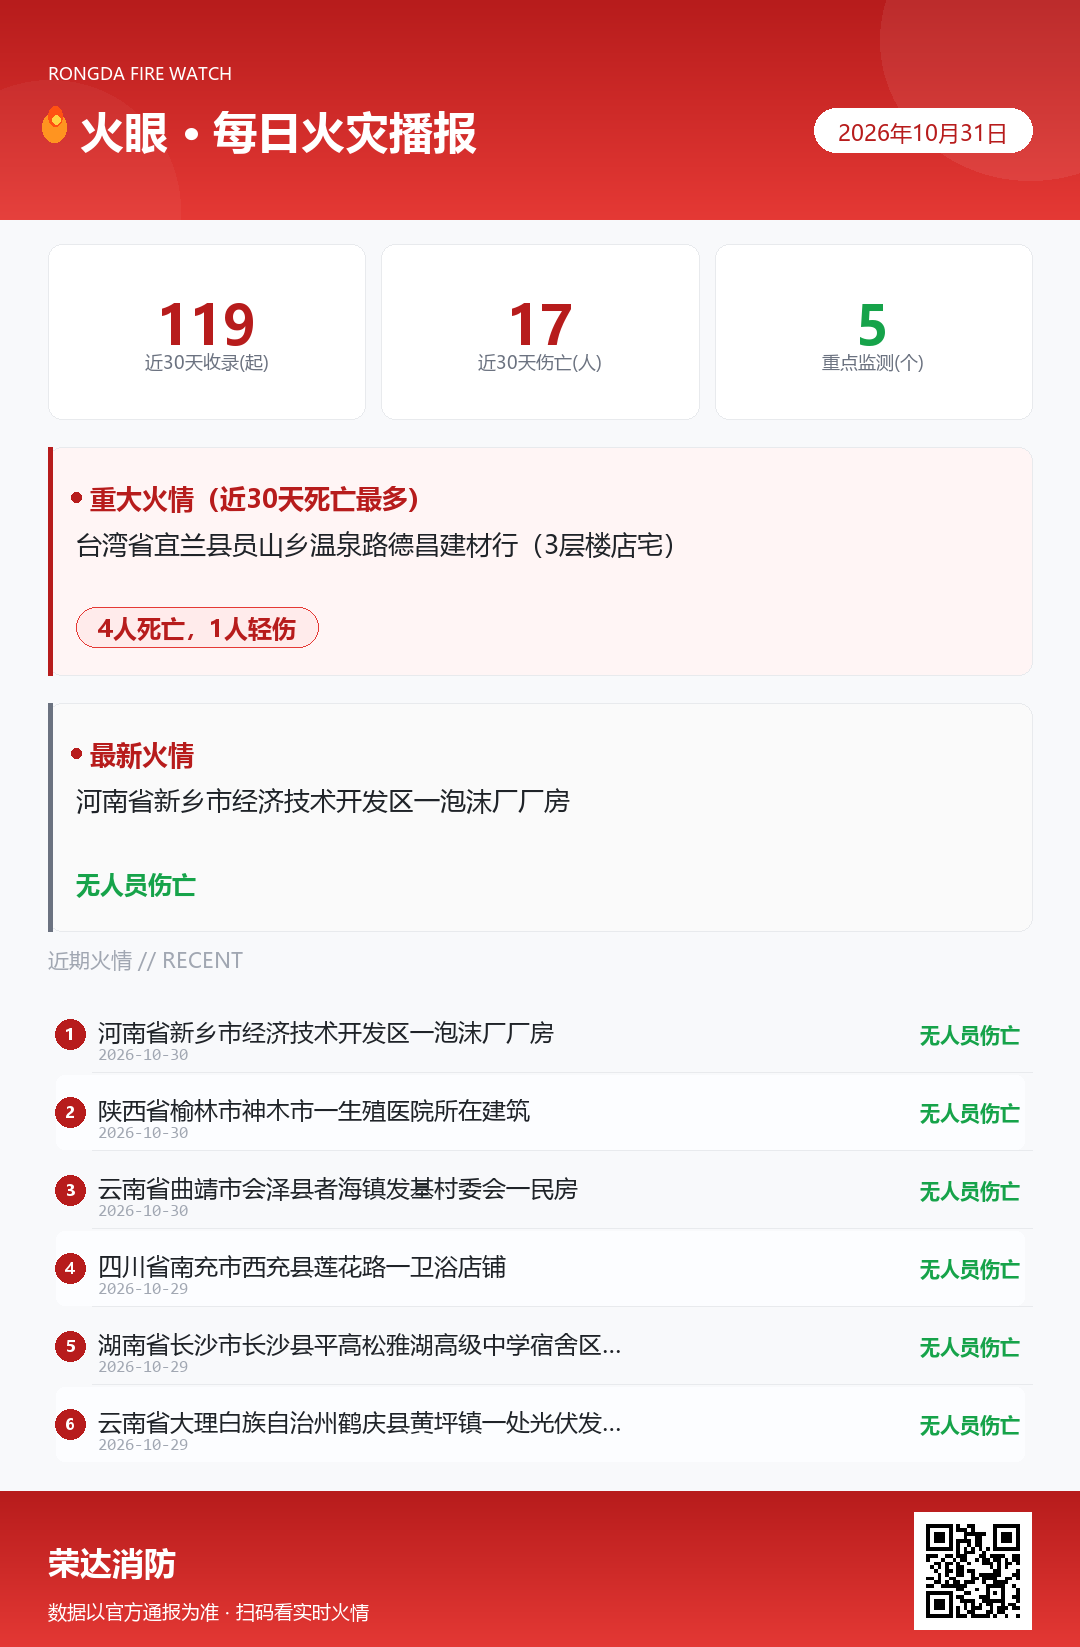
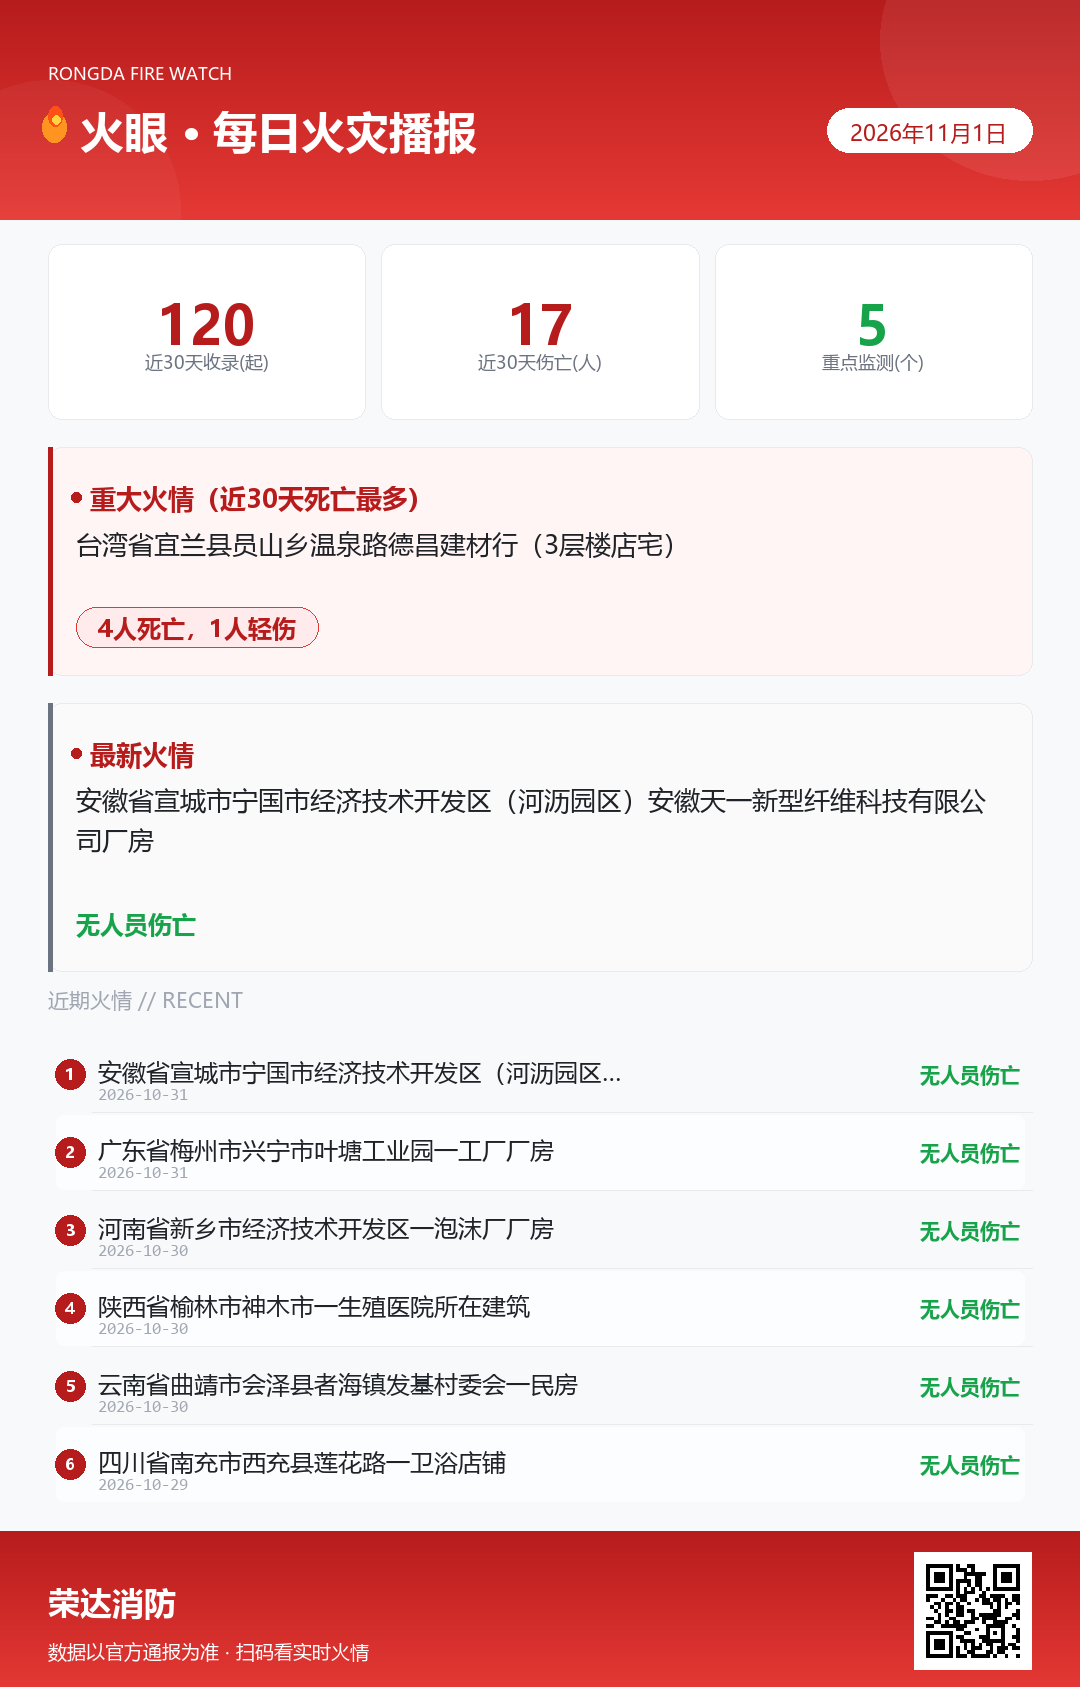
fire-daily-brief 2026-11-01 10:56 roll

diff --git a/index.html b/index.html
@@ -435,8 +435,8 @@
 <!-- ============ DATA（每日自动更新：由自动化脚本重写此对象） ============ -->
 <script id="brief-data" type="application/json">
 {
-  "date": "2026年10月31日",
-  "compileTime": "2026-10-31 06:58",
+  "date": "2026年11月1日",
+  "compileTime": "2026-11-01 10:56",
   "source": "AI 联网检索 · 各地消防救援机构官方通报及权威媒体转载",
   "range": "滚动更新 · 近 30 天",
   "stats": {
@@ -455,7 +455,7 @@
     },
     {
       "name": "广州市",
-      "status": "有官方通报（7·12 酒店广告牌火情、8·24 天河区广州大道中一仓库火灾（无伤亡、8·28 荔湾区西华路一民房火灾（无人员伤亡，12人疏散；9·5 天河区天河南一路天河城顶部火情（暂未收到人员伤亡报告、9·24 白云区人和镇同富路 13 号一厂房火灾（无人员伤亡，明火当晚 21 时 58 分扑灭）、10·7 一出租屋电动自行车蓄电池入户充电热失控起火（无人员伤亡，当事人被行政拘留）、10·10 增城区新塘镇一自建房火灾（室内电动车充电引发，无伤亡，当事人被行政拘留10日）、10·7 当日另一起出租屋电动自行车蓄电池入户充电热失控（凌晨1时许，无人员伤亡，当事人被行政拘留10日）、10·21 增城区荔城街道一小区负一层地下车库电动自行车起火（自动喷淋扑灭，1台电动车烧毁，无人员伤亡））"
+      "status": "有官方通报（7·12 酒店广告牌火情、8·24 天河区广州大道中一仓库火灾（无伤亡、8·28 荔湾区西华路一民房火灾（无人员伤亡，12人疏散；9·5 天河区天河南一路天河城顶部火情（暂未收到人员伤亡报告、9·24 白云区人和镇同富路 13 号一厂房火灾（无人员伤亡，明火当晚 21 时 58 分扑灭）、10·7 一出租屋电动自行车蓄电池入户充电热失控起火（无人员伤亡，当事人被行政拘留）、10·10 增城区新塘镇一自建房火灾（室内电动车充电引发，无伤亡，当事人被行政拘留10日）、10·7 当日另一起出租屋电动自行车蓄电池入户充电热失控（凌晨1时许，无人员伤亡，当事人被行政拘留10日）、10·21 增城区荔城街道一小区负一层地下车库电动自行车起火（自动喷淋扑灭，1台电动车烧毁，无人员伤亡、10·25 荔湾区海龙街道一小区10楼住户阳台起火（阳台堆放艾草艾条，物业与业主接力用水带扑救，明火在消防到场前已扑灭，无伤亡）"
     },
     {
       "name": "深圳市",
@@ -463,13 +463,13 @@
     }
   ],
   "case": {
-    "date": "2026-10-30",
-    "location": "河南省新乡市经济技术开发区一泡沫厂厂房",
+    "date": "2026-10-31",
+    "location": "安徽省宣城市宁国市经济技术开发区（河沥园区）安徽天一新型纤维科技有限公司厂房",
     "category": "工厂/车间",
-    "summary": "10月30日上午，河南新乡经济技术开发区一家泡沫厂发生火情。现场画面显示厂房区域燃起明火，橙红色火焰从厂房内部向外蹿出，滚滚黑色浓烟不断向上喷涌，多名路过群众看到浓烟在空中弥漫。新乡经开区消防救援大队值班人员表示火已扑灭、工作人员仍在现场处置；经开区应急管理局及属地政府均表示火灾未造成人员伤亡。",
+    "summary": "10月31日10时26分，119接到报警，宁国经济技术开发区河沥园区安徽天一新型纤维科技有限公司厂区发生火灾，现场黑烟滚滚、火势猛烈。消防救援力量第一时间赶赴现场处置，14时32分火被成功扑灭，燃烧时长约4小时。该公司成立于2014年10月，厂区占地200余亩、拥有10万平方米标准厂房、约300名产业工人，主要生产服装革、沙发革、汽车革、鞋革及箱包革等产品。",
     "casualty": "无人员伤亡",
-    "cause": "具体起火原因尚不清楚，正在调查中",
-    "src": "海报新闻 2026-10-30 报道（腾讯新闻、网易转载），新乡经开区消防救援大队、经开区应急管理局回应"
+    "cause": "事故原因正在调查中",
+    "src": "宁国市安防办情况通报（2026-10-31，宁国融媒发布）、新京报报道"
   },
   "tips": [
     "住宅近30天火情占三成，电气与降温取暖是主因：吉林梅河口10·20实验中学电暖器起火、浙江嘉兴10·15一住户老旧电视插头九年未拔疑线路老化、绍兴10·15冰箱故障引燃。降温期取暖设备专插专用人离即断，老旧插排和长期通电插头赶紧换，私拉乱接一律整改。",
@@ -488,6 +488,24 @@
     "媒体转载内容均注明原始官方来源。"
   ],
   "history": [
+    {
+      "date": "2026-10-31",
+      "location": "安徽省宣城市宁国市经济技术开发区（河沥园区）安徽天一新型纤维科技有限公司厂房",
+      "category": "工厂/车间",
+      "summary": "10月31日10时26分，119接到报警，宁国经济技术开发区河沥园区安徽天一新型纤维科技有限公司厂区发生火灾，现场黑烟滚滚、火势猛烈。消防救援力量第一时间赶赴现场处置，14时32分火被成功扑灭，燃烧时长约4小时。该公司成立于2014年10月，厂区占地200余亩、拥有10万平方米标准厂房、约300名产业工人，主要生产服装革、沙发革、汽车革、鞋革及箱包革等产品。",
+      "casualty": "无人员伤亡",
+      "cause": "事故原因正在调查中",
+      "src": "宁国市安防办情况通报（2026-10-31，宁国融媒发布）、新京报报道"
+    },
+    {
+      "date": "2026-10-31",
+      "location": "广东省梅州市兴宁市叶塘工业园一工厂厂房",
+      "category": "工厂/车间",
+      "summary": "10月31日11时30分至40分许，兴宁市消防救援大队接到报警，叶塘工业园内一处工业厂区起火，网传现场视频显示浓烟冲天。兴宁市应急管理局当日16时20分许向媒体确认，起火地点位于叶塘工业园内一处有围墙隔开的工业厂区，现场火势已被扑灭，无人员伤亡。",
+      "casualty": "无人员伤亡",
+      "cause": "起火原因待查",
+      "src": "新京报（记者武丹萍）2026-10-31 报道，兴宁市应急管理局、兴宁市消防救援大队回应"
+    },
     {
       "date": "2026-10-30",
       "location": "河南省新乡市经济技术开发区一泡沫厂厂房",
@@ -703,6 +721,15 @@
       "casualty": "无人员伤亡",
       "cause": "起火原因待消防部门调查认定（现场以可燃物燃烧为主，浓烟封堵二楼阳台）",
       "src": "华商报大风新闻（2026-10-27 报道，事发 10-25）"
+    },
+    {
+      "date": "2026-10-25",
+      "location": "广东省广州市荔湾区海龙街道一小区10楼一住户阳台",
+      "category": "住宅/民房",
+      "summary": "10月25日12时42分，广州市荔湾区海龙街道一小区10楼住户阳台起火。住户发现后第一时间致电通知物业，物业赶赴现场核查确认后当即拨打119，并取用11层室内消火栓、联合保安接驳水带，从上层向下对准起火阳台出水扑救，随后水带交由11楼住户接力握持持续出水；消防控制室同步启动应急响应，居民听到警报后有序沿疏散楼梯撤离。消防救援人员到场时明火已被扑灭。经初步了解，该户阳台堆放有艾草、艾条类物品。",
+      "casualty": "无人员伤亡",
+      "cause": "阳台堆放艾草、艾条类物品，起火原因正在进一步调查",
+      "src": "广州消防 2026-10-30 发布消息、南方都市报报道"
     },
     {
       "date": "2026-10-24",
